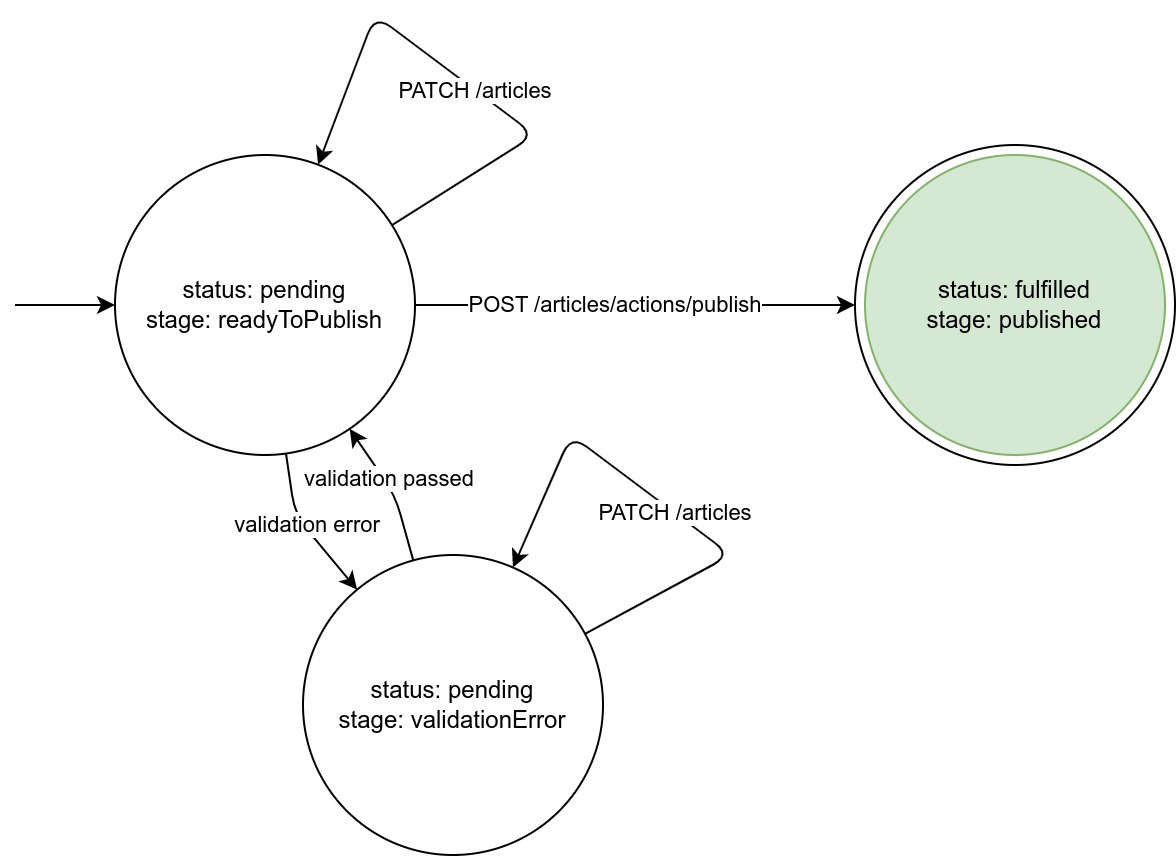
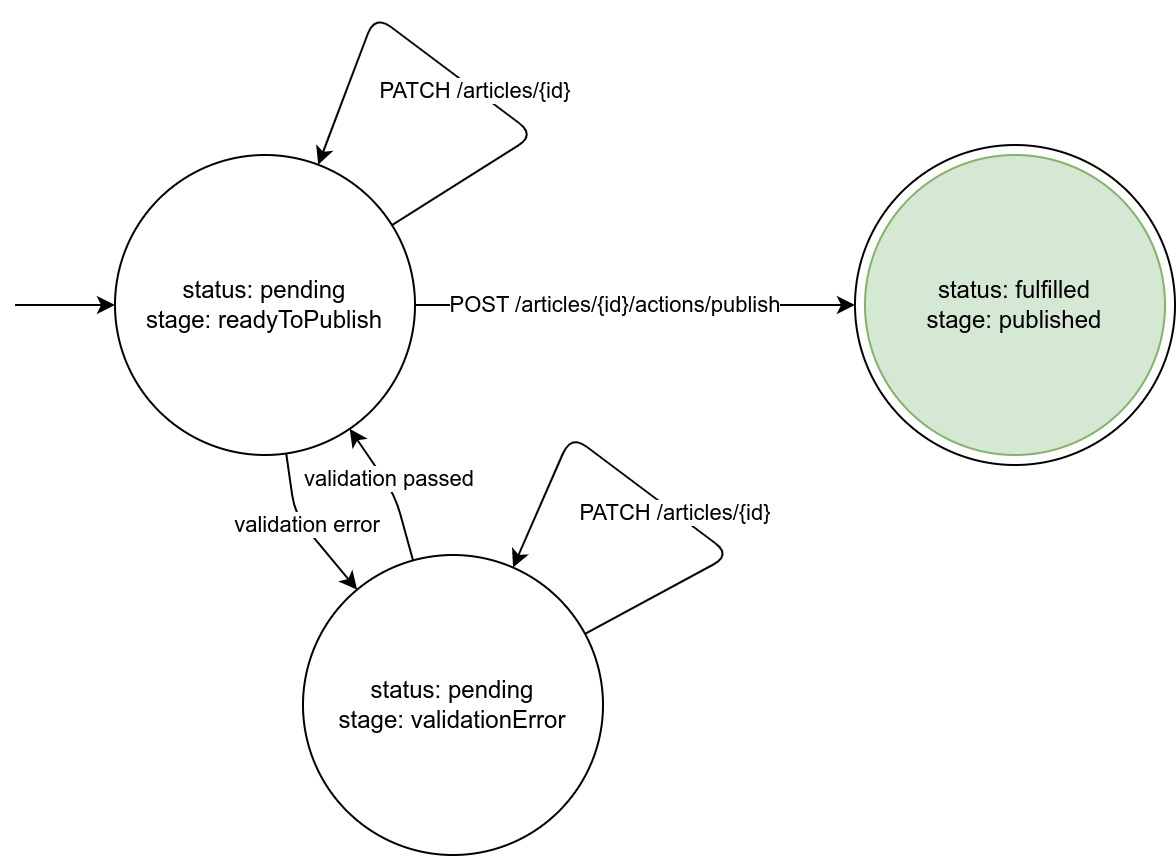
docs specification: actions & fsm

Changed region(s): [[0.3673, 0.3341, 0.6735, 0.3645], [0.4898, 0.5771, 0.6735, 0.6075], [0.3061, 0.0911, 0.4898, 0.1215]]

diff --git a/docs/specification.md b/docs/specification.md
@@ -176,7 +176,7 @@ GET /articles/AB123?select=title,status
 
 Колекція - це список ресурсів документів.
 
-*Правило 6*
+*Правило*
 
 > **Для назв колекцій слід використовувати іменник у множині**, як, наприклад, `employers`, `people`, `orders`.
 
@@ -423,11 +423,161 @@ Action (екшн) ресурс - це процедурний концепт. Act
 Відправка повідомлення роботодавцю
 
 ```http request
-POST /employers/93017373/actions/sendNotification
+POST /employers/93017373/actions/send-notification
 ```
 
 Конвертація грошей з однієї валюти в іншу (використовується GET, тому що операція не має побічних ефектів)
 
 ```http request
-GET /actions/convertMoney?from=EUR&amount=45&to=USD
+GET /actions/convert-money?from=EUR&amount=45&to=USD
 ```
+
+*Правило*
+
+> Перш ніж використовувати action подумайте над тим чи можливо його представити у вигляді ресурсу документа чи колекції,
+> що описує намір дії.
+
+Наприклад екшн відправки повідомлення
+
+```http request
+POST /employers/93017373/actions/send-notification
+```
+
+можна замінити ресурсом колекції
+
+```http request
+POST /employers/93017373/notifications
+```
+
+Використання іменника тут покращує розширюваність операцій. Наприклад можна додати GET запит, що поверне історію
+усіх відправлених повідомлень.
+
+### 3.6 Скінченний автомат
+
+Скінченний автомат - це підвид документа, що описує ресурс, який в ході свого існування може змінювати стани.
+
+*Правило*
+
+> Скінченний автомат повинен знаходитись в колекції `/fsm`: `/fsm/order-creation-tasks`, `/fsm/articles/123`
+
+#### 3.6.1 Стани скінченного автомата
+Скінченний автомат має стани. Кожен стан скінченного автомата однозначно описується полем `stage`. Це поле є 
+обов'язковим, та значення, які це поле може приймати, повинні бути описані в маніфесті як enum.
+
+Серед станів можна виділити початкові та кінцеві.
+
+*Початковий стан* - це той в який скінченний автомат може потрапити після свого створення. Початковий стан може бути 
+лише один.
+
+*Кінцеві стани* - це такі стани, після потрапляння в які, зміна стану скінченного автомата більше не можлива. Кінцевий 
+стан повинен бути хоча б один.
+
+Скінченний автомат обов'язково починає своє виконання з одного з початкових станів та закінчує кінцевим.
+
+В маніфесті в описі поля `stage` потрібно зазначити який стан є початковим, та які кінцевими.
+
+Також скінченний автомат може мати додаткові поля. На прикладі нижче таким додатковим полем є `orderId`, яке з'являється 
+при `fulfilled` стейджі.
+
+Окрім `stage` є ще обов'язкове поле `status`, яке може приймати три значення:
+- `pending` - якщо автомат НЕ в кінцевому стані
+- `fulfilled` - якщо автомат в кінцевому стані і його виконання завершилось успішно
+- `rejected` - якщо автомат в кінцевому стані і його виконання завершилось невдало
+
+Кожен стейдж однозначно відповідає одному зі статусів. Якщо автомат в кінцевому стейджі, то поле `status` матиме
+значення або `fulfilled` або `rejected`
+
+Якщо немає потреби в детальних стейджах, то поле `stage` може бути рівним полю `status`. Тобто також приймати три
+значення: `pending`, `fulfilled` та `rejected`
+
+Поле `problem` у форматі [RFC-7807](https://www.rfc-editor.org/rfc/rfc7807) (TODO: посилання на опис формату помилки в 
+специфікації) є обов'язковим при статусі `rejected`
+
+Приклад скінченного автомата по створенню замовлення.
+
+![Order creating stages](img/specification/creating-order-stages.jpg)
+
+#### 3.6.2 Створення скінченного автомата
+*Правило*
+
+> Створення скінченного автомата - це завжди синхронна операція. У відповідь на створення лонг таску ми отримуємо лише 
+> його ідентифікатор, а не повну сутність.
+
+Example request
+
+```http request
+POST /fsm/order-creation-tasks
+Content-Type: application/vnd.rollun-request+json
+```
+
+```json
+{
+  "payload": {
+    "idempotencyKey": "qwerty",
+    "to": "WA, Yakima, 1712 Melrose Street, 98908",
+    "items": [
+      {
+        "id": "ABC12",
+        "qty": 1
+      }
+    ]
+  }
+}
+```
+
+Example response
+
+```http
+HTTP/1.1 200 OK
+Content-Type: application/vnd.rollun+json
+```
+
+```json
+{
+  "data": {
+    "id": "qwerty123"
+  }
+}
+```
+
+На майбутнє ми залишаємо до розгляду варіант, коли створення скінченного автомата може бути асинхронною операцією. В 
+цьому випадку ми б у відповідь на POST запит отримали б код 202 Accepted та ідентифікатор ресурсу через який можна 
+відстежувати стан виконання операції. Але поки що вважаємо, що створення скінченного автомата - завжди синхронна 
+операція.
+
+#### 3.6.3 Ідемпотентність скінченного автомата
+
+При створенні лонг таску обов'язково передається ключ ідемпотентності. Тоді повторний запит на створення лонг таску з
+цим самим ключем вже не створить лонг таск, а або поверне помилку 409 Conflict, або екземпляр, вже створенного минулим
+запитом, лонг таску. Це залежить від реалізації сервера.
+
+Тут працює правило один ключ ідемпотнентності - один екземпляр автомата. Тому, якщо, наприклад, виконання задачі
+завершилось помилкою, що призвело до rejected статусу, то цей лонг таск вже не можна ніяк змінити (тому що rejected -
+кінцевий стан) та, наприклад, спробувати його перезапустити. Єдиний шлях повторно спробувати виконати дію - це створити
+новий лонг таск з новим ключем ідемпотентності.
+
+#### 3.6.4 Перехід між стейджами скінченного автомата
+*Правило*
+
+> Стейджі лскінченного автомата можуть змінюватись як сервером, так і клієнтом, якщо це допустимо.
+> 
+> Клієнт може змінювати стейджі за допомогою http запитів, що завчасно описані в маніфесті. При цьому усі запити повинні
+> бути синхронними. Запити можуть бути двох видів:
+> 1. PATCH & PUT запити, що змінюють поля скінченного автомата.
+> 2. POST /actions/... - екшени, що переводять скінченний автомат з одного стейджу в інший
+
+При цьому, коли скінченний автомат переходить в якийсь із стейджів (навіть самого в себе), то на сервері можуть 
+запускатись трігери, які також можуть змінити стейдж скінченного автомата.
+
+*Правило*
+
+> Якщо спробувати виконати запит, що не дозволенний в поточному стейджі лонг таску, то повинна повернутись помилка
+> 409 Conflict.
+
+Наприклад уявімо автомат, який описує стани статті. Вона може бути в трьох станах: validationError, readyToPublish,
+published. Поки вона знаходиться в станах validationError та readyToPublish то ми її можемо редагувати за допомогою
+PATCH запиту. При цьому після кожного редагування на сервері запуститься трігер який проведе валідацію статті і в
+залежності від результата може змінити її стейдж. Коли стаття в стейджі readyToPublish то ми можемо запустити екшен
+`POST /articles/actions/publish`, що переведе статтю в published стейдж.
+
+![Article stages](img/specification/article-stages.jpg)
